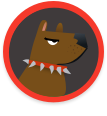
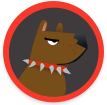
misc padding fixes, crop imgs to remove extra bottom padding

Changed region(s): [[0.028, 0.0, 0.9813, 1.0], [0.5607, 0.0, 0.6449, 0.0286], [0.4766, 0.0, 0.5327, 0.0286]]

diff --git a/footpather/www/template/home.html b/footpather/www/template/home.html
@@ -47,7 +47,7 @@
     <script id="templates/offenderPopup.html" type="text/ng-template">
       <div class="text-center">
         <h4>Registered Sex Offender</h4>
-        <img class="clip-circle" ng-src="{{currOffender.photoUrl}}" alt="offender photo" height="100px"/>
+        <img class="clip-circle" ng-src="{{currOffender.photoUrl}}" alt="offender photo" height="90px"/>
         <h5 class="text-grey h-nohigh">{{currOffender.name}}</h5>
         <p class="text-grey">{{currOffender.address.indexOf("Unmappable") > -1 ? "No address" : currOffender.address}}</p>
       </div>
@@ -101,7 +101,7 @@
       <div class="text-center">
         <h4>Footpather User</h4>
         <img ng-src="./img/popup-icons/users/{{currUser.icon}}.png" alt="" height="80px" />
-        <h4>{{currUser.user_name}}</h4>
+        <h4 class="after-user-img" >{{currUser.user_name}}</h4>
       </div>
       <!--overlay center icon-->
       <img class="top-center-icon" ng-src="./img/avatars/{{currUser.icon}}.png"/>
@@ -185,7 +185,7 @@
 
   <script id="templates/helpPopup.html" type="text/ng-template">
     <div class="text-center stable h-inlinehigh">
-      <h3 class="stable h-inlinehigh">Help Me!</h3>
+      <h3 class="stable h-inlinehigh">SOS</h3>
       <button class="button button-small pull-top-right help-cancel-btn" ng-click="closeHelpPop()">Cancel</button>
       <h4 class="stable h-inlinehigh">In danger?</h4>
       <h4 class="stable h-inlinehigh">Call 911 and alert others!</h4>

diff --git a/footpather/www/css/style.css b/footpather/www/css/style.css
@@ -14,11 +14,12 @@ body {
 }
 
 .h-inlinehigh {
-  margin: 20px auto 0;
+  margin: 15px auto 0;
 }
 
 .text-grey {
   color: #9b9b9b;
+  margin-bottom: 0;
 }
 
 .bg-grey {
@@ -36,7 +37,7 @@ body {
 .like-btn {
   height: 20px;
   border-radius: 5px;
-  margin-top: 8px;
+  margin-top: 20px;
 }
 
 .like-btn h5 {
@@ -156,7 +157,7 @@ body {
 
 .popup-head,
 .popup-body {
-  padding: 5px !important;
+  padding: 10px !important;
   border: none;
 }
 
@@ -247,8 +248,8 @@ body {
   padding: 0;
   background: #f8f8f8;
   border-top: 1px solid #c5c5c5;
-  border-bottom-right-radius: 10px;
-  border-bottom-left-radius: 10px;
+  border-bottom-right-radius: 5px;
+  border-bottom-left-radius: 5px;
 }
 
 .popup-buttons button{
